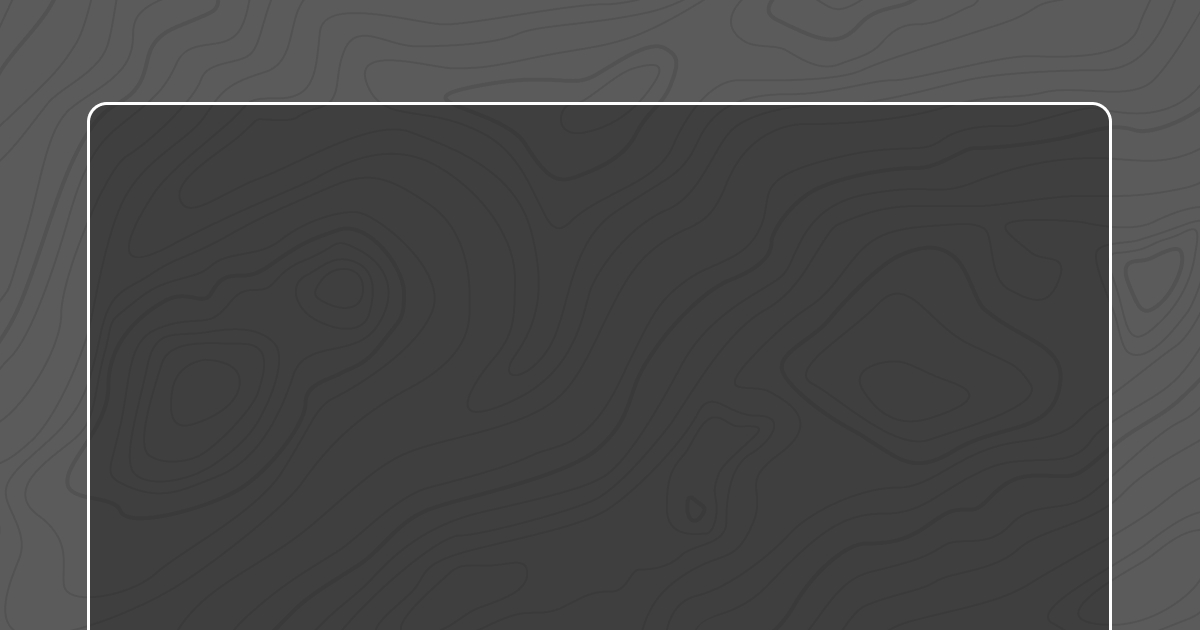
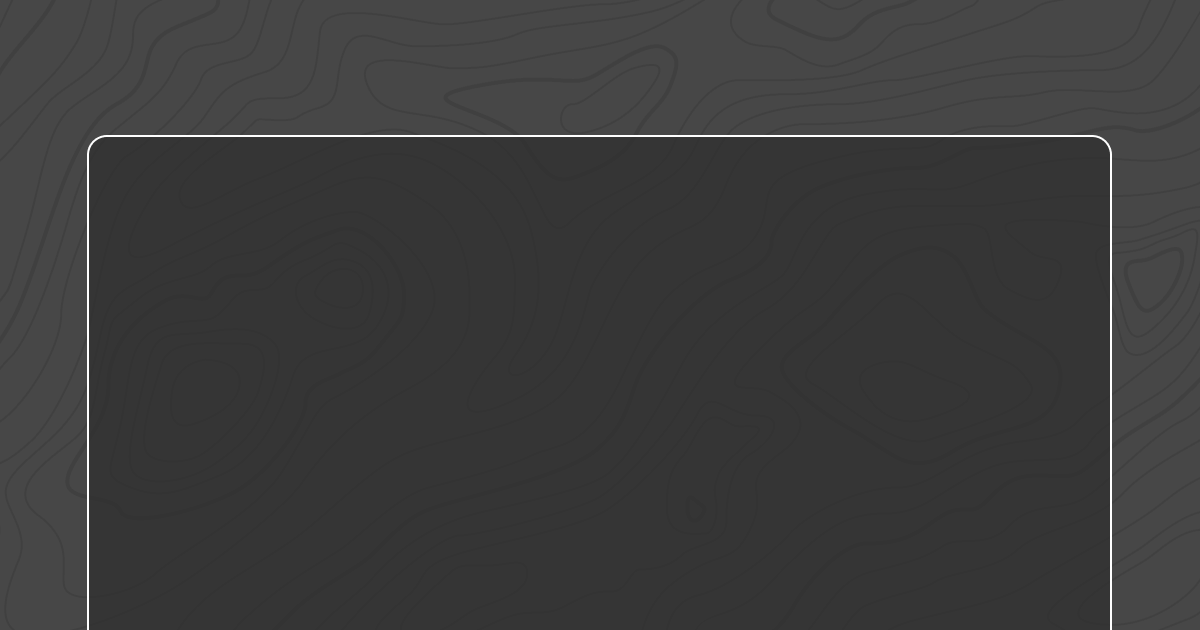
add og

Changed region(s): [[0.0617, 0.2111, 0.925, 0.2413], [0.0617, 0.1508, 0.925, 0.181]]

diff --git a/app/api/og/route.tsx b/app/api/og/route.tsx
@@ -28,7 +28,6 @@ const loadGoogleFont = async (font: string, text: string) => {
   throw new Error("failed to load font data");
 };
 
-// Функция для разбивки текста на строки
 const splitTextIntoLines = (text: string, maxLines: number = 3): string[] => {
   const words = text.split(" ");
   const lines: string[] = [];
@@ -58,6 +57,7 @@ const getFontSize = (lines: string[]): number => {
 export const GET = async (request: NextRequest) => {
   const { searchParams } = new URL(request.url);
   const url = searchParams.get("url");
+  const theme = searchParams.get("theme") ?? "dark";
 
   if (!url) {
     return new Response("URL parameter is required", { status: 400 });
@@ -90,15 +90,24 @@ export const GET = async (request: NextRequest) => {
           width: "100%",
           display: "flex",
           position: "relative",
-          backgroundImage,
-          backgroundSize: "cover",
-          backgroundPosition: "center",
         }}
       >
         <div
           style={{
+            height: "100%",
+            width: "100%",
+            display: "flex",
+            backgroundImage,
+            backgroundSize: "cover",
+            backgroundPosition: "center",
+            filter: theme === "dark" ? "none" : "invert(1)",
+          }}
+        />
+
+        <div
+          style={{
             position: "absolute",
-            top: "150px",
+            top: "170px",
             padding: "0 130px",
             width: "100%",
             display: "flex",
@@ -108,7 +117,7 @@ export const GET = async (request: NextRequest) => {
             style={{
               fontSize,
               fontWeight: "700",
-              color: "white",
+              color: theme === "dark" ? "white" : "black",
               lineHeight: 1.2,
             }}
           >
@@ -121,7 +130,7 @@ export const GET = async (request: NextRequest) => {
             position: "absolute",
             padding: "0 130px",
             display: "flex",
-            bottom: "80px",
+            bottom: "40px",
             justifyContent: "space-between",
             alignItems: "center",
             width: "100%",
@@ -134,19 +143,18 @@ export const GET = async (request: NextRequest) => {
               gap: "20px",
             }}
           >
-            {result.speakerAvatar && (
-              <img
-                src={result.speakerAvatar}
-                alt="Speaker"
-                style={{
-                  height: "90px",
-                  width: "90px",
-                  border: "2px solid white",
-                  borderRadius: "50%",
-                  objectFit: "cover",
-                }}
-              />
-            )}
+            <img
+              src={result.speakerAvatar}
+              alt="Speaker"
+              style={{
+                height: "100px",
+                width: "100px",
+                border: `3px solid ${theme === "dark" ? "white" : "black"}`,
+                borderRadius: "50%",
+                objectFit: "cover",
+              }}
+            />
+
             <div
               style={{
                 display: "flex",
@@ -155,9 +163,9 @@ export const GET = async (request: NextRequest) => {
             >
               <div
                 style={{
-                  fontSize: 40,
+                  fontSize: 45,
                   fontWeight: "600",
-                  color: "white",
+                  color: theme === "dark" ? "white" : "black",
                 }}
               >
                 {result.speaker}
@@ -165,8 +173,8 @@ export const GET = async (request: NextRequest) => {
               {result.company && (
                 <div
                   style={{
-                    fontSize: 30,
-                    color: "white",
+                    fontSize: 35,
+                    color: theme === "dark" ? "white" : "black",
                     opacity: 0.8,
                   }}
                 >
@@ -181,7 +189,7 @@ export const GET = async (request: NextRequest) => {
               src={result.logo}
               alt="Conference logo"
               style={{
-                height: "90px",
+                height: "100px",
                 objectFit: "contain",
               }}
             />

diff --git a/app/analysis/(components)/CopyButton/CopyButton.tsx b/app/analysis/(components)/CopyButton/CopyButton.tsx
@@ -11,6 +11,8 @@ import {
   DropdownMenuTrigger,
 } from "@/components/ui";
 
+import { htmlToMarkdown } from "../../(actions)";
+
 interface CopyButtonProps {
   talk: any;
 }
@@ -18,10 +20,12 @@ interface CopyButtonProps {
 export const CopyButton = ({ talk }: CopyButtonProps) => {
   const { copied, copy } = useCopy();
 
-  const onCopyClick = () =>
+  const onCopyClick = async () => {
+    const description = await htmlToMarkdown(talk.description);
     copy(
-      `**${talk.title} - ${talk.speaker}**\n\n${talk.url}\n\n${talk.description}\n`
+      `**${talk.title} - ${talk.speaker}**\n\n${talk.url}\n\n${description}\n`
     );
+  };
 
   const onGetOgImage = () => window.open(`/api/og?url=${talk.url}`, "_blank");
 

diff --git a/app/analysis/(actions)/htmlToMarkdown.ts b/app/analysis/(actions)/htmlToMarkdown.ts
@@ -1,0 +1,14 @@
+import { unified } from "unified";
+import rehypeParse from "rehype-parse";
+import rehypeRemark from "rehype-remark";
+import remarkStringify from "remark-stringify";
+
+export const htmlToMarkdown = async (html: string) => {
+  const result = await unified()
+    .use(rehypeParse, { fragment: true })
+    .use(rehypeRemark)
+    .use(remarkStringify)
+    .process(html);
+
+  return String(result).trim();
+};

diff --git a/app/analysis/(helpers)/parsers/ontiko.ts b/app/analysis/(helpers)/parsers/ontiko.ts
@@ -29,7 +29,10 @@ export const parseOntiko = async (url: string, html: string) => {
   }
 
   let logo;
-  const logoContainerElement = doc.querySelector('[class*="header__logo"]');
+  const logoContainerElement = doc.querySelector(
+    '[class*="header__logo"], [class*="nav__logo"]'
+  );
+
   if (logoContainerElement) {
     const logoElement = logoContainerElement.firstElementChild;
 

diff --git a/app/analysis/(actions)/index.ts b/app/analysis/(actions)/index.ts
@@ -1,0 +1,1 @@
+export * from "./htmlToMarkdown";
